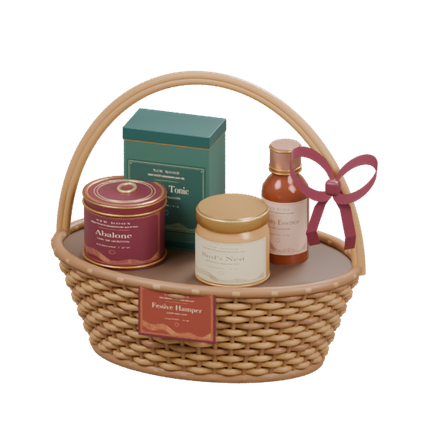
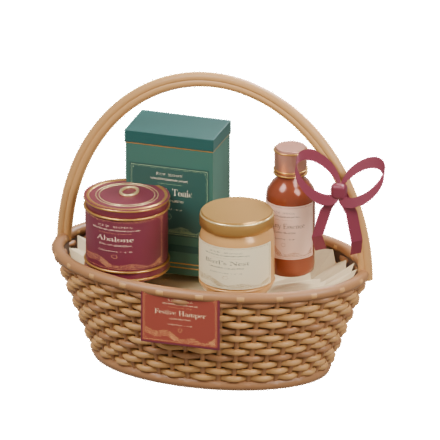
Refine the festive hamper with an open pleated lining

diff --git a/products/studio.py b/products/studio.py
@@ -103,8 +103,18 @@ def hamper():
     for j in range(n):wire('Upright willow', [co(2*pi*j/n,t) for t in (0,.5,1)],.0028,cane2)
     for k in range(rows):
         t=k/(rows-1); pts=[co(2*pi*j/(n*4),t,.0029*cos(pi*j/4+k*pi)) for j in range(n*4)];wire('Woven willow',pts,.0037,cane if k%4 else cane2,True)
-    # A dark lined interior blocks views through the wicker and supports the gifts.
-    vs=[co(j*2*pi/80,t,-.004) for t in (0,.98) for j in range(80)];mesh('Lined basket',vs,[tuple(reversed(range(80))),tuple(range(80,160))]+[(j,(j+1)%80,(j+1)%80+80,j+80) for j in range(80)],umber)
+    # Open lining and pleated tissue, with the paper rising behind the gifts.
+    vs=[co(j*2*pi/80,t,-.004) for t in (0,.97) for j in range(80)];mesh('Lined basket',vs,[tuple(reversed(range(80)))]+[(j,(j+1)%80,(j+1)%80+80,j+80) for j in range(80)],umber)
+    tissue=material('Folded cream tissue','dfcaa2',0,.82);vs=[];fs=[];nfolds=64
+    for ring in range(3):
+        for j in range(nfolds):
+            a=2*pi*j/nfolds; pleat=cos(j*pi); scale2=(.35,.75,.93)[ring]+.017*pleat; h=(.08,.089,.103)[ring]+ring*(.002*pleat+.003*sin(a*7))
+            if ring==2: h+=.036*max(sin(a),0)**2*(.75+.25*cos(4*a))
+            vs.append((rx*scale2*cos(a),ry*scale2*sin(a),h))
+    for k in range(2):
+        for j in range(nfolds):
+            a=k*nfolds+j;b=k*nfolds+(j+1)%nfolds;fs.extend([(a,a+nfolds,b+nfolds),(a,b+nfolds,b)])
+    mesh('Fan-folded paper lining',vs,fs+[tuple(range(nfolds))],tissue)
     for t in [0,1]:hoop('Bound basket rim',0,0,.006+.108*t,rx*scale(t),ry*scale(t),.006,cane2)
     for off in [-.0028,.0028]:
         pts=[((rx+off)*cos(a*pi/100),.011,.108+(.201+off)*sin(a*pi/100)) for a in range(101)];wire('Split-cane handle',pts,.0048,cane)
@@ -143,7 +153,7 @@ def build(slug):
         m=material('Letterpress • '+p['name'],'ffffff');m.use_backface_culling=True;tex=m.node_tree.nodes.new('ShaderNodeTexImage');uvnode=m.node_tree.nodes.new('ShaderNodeUVMap');uvnode.uv_map='UVMap';m.node_tree.links.new(uvnode.outputs['UV'],tex.inputs['Vector']);tex.image=bpy.data.images.load(str(ROOT/p['slug']/'label.png'),check_existing=True);m.node_tree.links.new(tex.outputs['Color'],m.node_tree.nodes.get('Principled BSDF').inputs['Base Color']);labels.append(m)
     GENERATORS[i]();bpy.ops.object.select_all(action='SELECT');bpy.context.view_layer.objects.active=bpy.context.selected_objects[0];bpy.ops.object.convert(target='MESH');bpy.ops.object.join();obj=bpy.context.object;obj.data.uv_layers.active_index=obj.data.uv_layers.find('UVMap');obj.data.uv_layers.active.active_render=True;bpy.ops.object.origin_set(type='ORIGIN_CURSOR');obj.name=CAT[i]['name'];obj['origin_note']='Base centre, metre units';obj['artwork']='NEW MOON (placeholder pack art)';obj.data.name=slug
     bpy.ops.export_scene.gltf(filepath=str(out/'model.glb'),export_extras=True,export_draco_mesh_compression_enable=True,export_draco_mesh_compression_level=7,export_draco_position_quantization=16)
-    # Transparent, orthographic catalogue photographs, using the same physical object.
+    # Transparent, orthographic catalogue previews, using the same physical object.
     pts=[obj.matrix_world@Vector(p) for p in obj.bound_box];ctr=sum(pts,Vector((0,0,0)))/8;size=max(obj.dimensions);scene.world=bpy.data.worlds.new('Soft ivory bounce');scene.world.use_nodes=True;scene.world.node_tree.nodes['Background'].inputs[0].default_value=(.72,.66,.57,1);scene.world.node_tree.nodes['Background'].inputs[1].default_value=.65
     def aim(o):o.rotation_euler=(ctr-o.location).to_track_quat('-Z','Y').to_euler()
     for j,(loc,power,span) in enumerate([((-1.5,-2,2.8),145,2),((2,-1,1.4),65,1.4),((.4,1.7,2),120,1.2)]):

diff --git a/products/README.md b/products/README.md
@@ -2,6 +2,6 @@
 
 `catalog.json` is the public asset index. Each slug contains a self-contained, Y-up Draco GLB in metres with its origin at the base, an RGBA catalogue photograph, an editable label master and a Blender entry point. No licensed brand artwork or scanned products are used. Shapes, colours, sizes and contents are illustrative.
 
-From the repository root, run `blender -b --python-exit-code 1 --python products/cny-hamper-basket/generate.py` (substitute any SKU). Tested with Blender 5.2 and the bundled glTF exporter/Draco encoder. `studio.py` contains the shared modelling and studio lighting rigs. Only the merchandise is exported; the preview lights and camera are added afterwards. Transparent previews can be resized losslessly in format (keep PNG) for smaller web payloads.
+From the repository root, run `blender -b --python-exit-code 1 --python products/cny-hamper-basket/generate.py` (substitute any SKU). Tested with Blender 5.2 and the bundled glTF exporter/Draco encoder. `studio.py` contains the shared modelling and studio lighting rigs. Only the merchandise is exported; the preview lights and camera are added afterwards. Keep previews as transparent PNGs under 250 KB; downsample them if replacement art makes them larger.
 
 To replace the pack art, keep the front orientation and filename of the relevant `label.png`, replace it with owner-approved art, then rebuild the model and any sets/fixtures containing it. The optional `python3 products/letterpress.py` regenerates and overwrites **all** mock label masters; it requires Pillow and system serif/sans fonts (or set `SERIF_FONT` and `SANS_FONT`).
